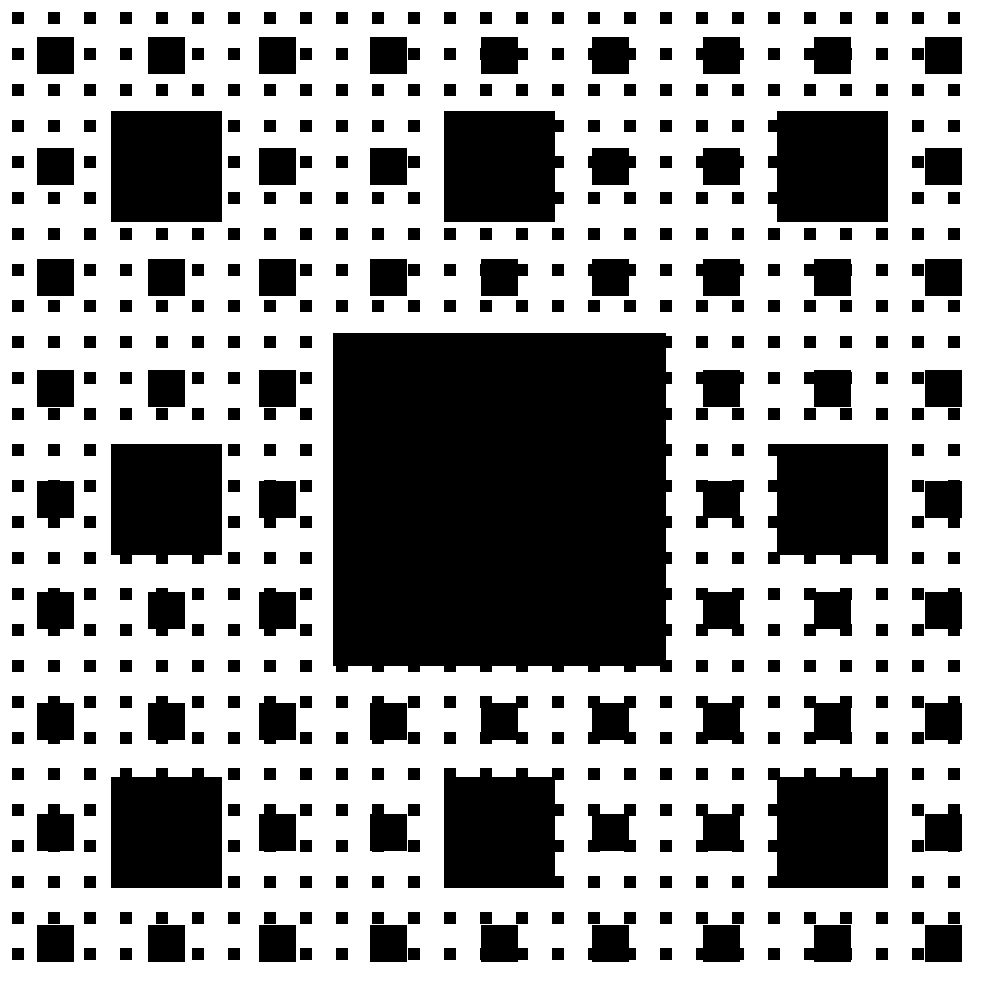
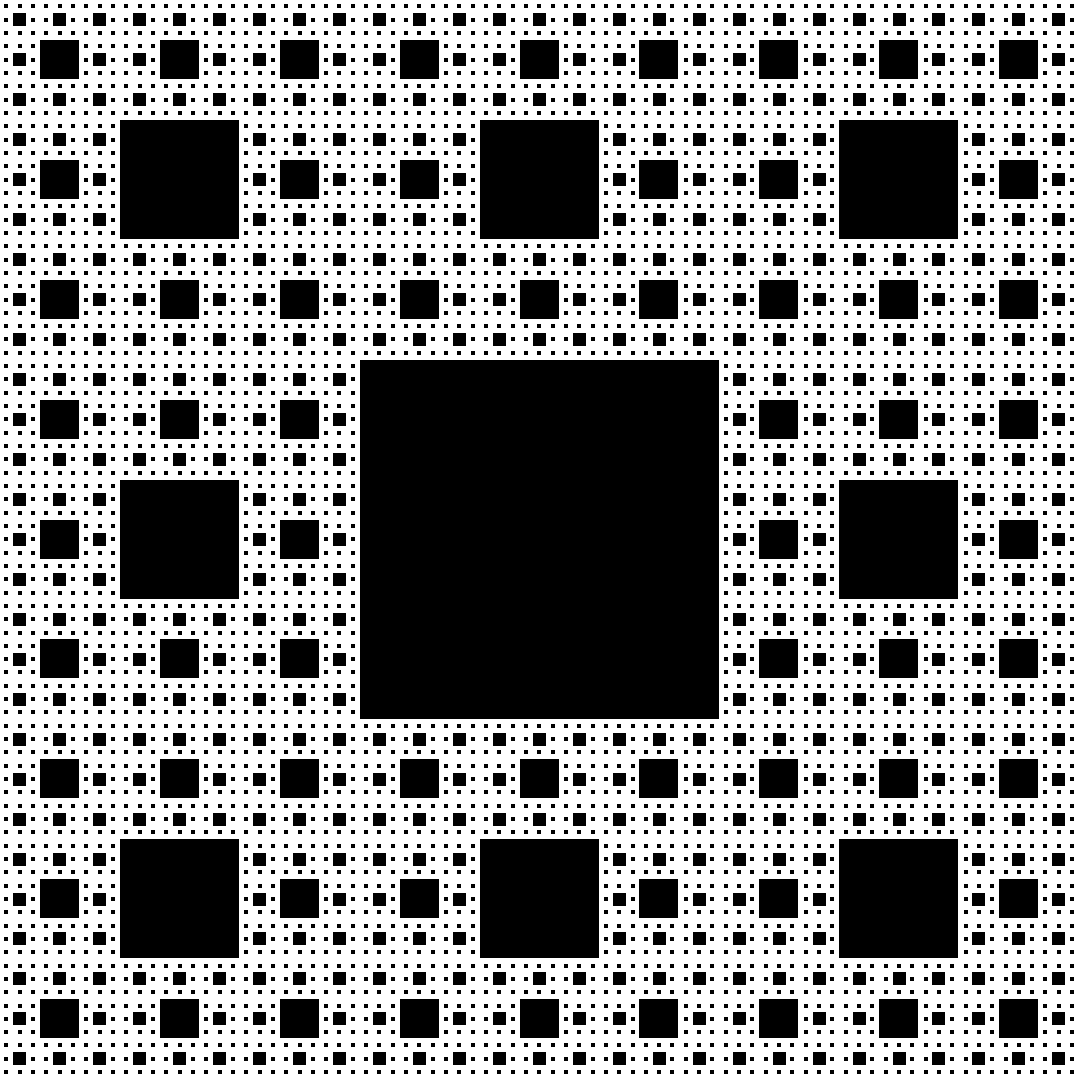
Finished Recursion Project

Changed region(s): [[0.0, 0.0, 1.0, 1.0]]

diff --git a/Projects/Recursion/SCarpet.java b/Projects/Recursion/SCarpet.java
@@ -2,7 +2,7 @@
 import java.awt.*; 
 import java.util.*; 
 public class SCarpet { 
-   public static final int SIZE = 999; //243
+   public static final int SIZE = 1080; //243
    public static void main(String[] args) { 
      // prompt for level 
       Scanner console = new Scanner(System.in); 
@@ -13,27 +13,16 @@ public class SCarpet {
       Graphics g = p.getGraphics(); 
       drawFigure(g, level, 0, 0, SIZE); 
    } 
- // Draws a Sierpinski carpet to the given level inside the given area. 
+   // Draws a Sierpinski carpet to the given level inside the given area. 
    public static void drawFigure(Graphics g, int level, int x, int y, int size) {
-   //FOUR AND FIVE DONT WORK CORRECTLY YET!!!!
-// NEEDS TESTING!!!!
+      
       if (level > 0) {
          for (int i = 1; i <= Math.pow(3, level-1); i++)
             for (int j = 1; j <= Math.pow(3, level-1); j++) {
-               int center = (int)(size/Math.pow(3, level));
-               int rectSize = (int)(size/Math.pow(3, level));
-               //int xPos = (int)(x+(center*j*level) - (center*(level-1)));
-               //int yPos = (int)(y+(i*center*level) - (center*(level-1)));
-               //if (level == 2) {
-               //   xPos += j > 1 ? center*(j - 1) : 0;
-               //   yPos += i > 1 ? center*(i - 1) : 0;
-               //} else if (level == 4) {
-               //   xPos += j > 1 ? -center*(j - 1) : 0;
-               //   yPos += i > 1 ? -center*(i - 1) : 0;
-               //}
-               int xPos = center*(j-1)*3 + center;
-               int yPos = center*(i-1)*3 + center;
-               g.fillRect(xPos, yPos, rectSize, rectSize);
+               double pixel = size/Math.pow(3, level);
+               int xPos = (int)(Math.round(pixel*(j-1)*3 + pixel));
+               int yPos = (int)(Math.round(pixel*(i-1)*3 + pixel));
+               g.fillRect(xPos, yPos, (int)pixel, (int)pixel);
             }
          drawFigure(g, level-1, x, y, size);
       }
